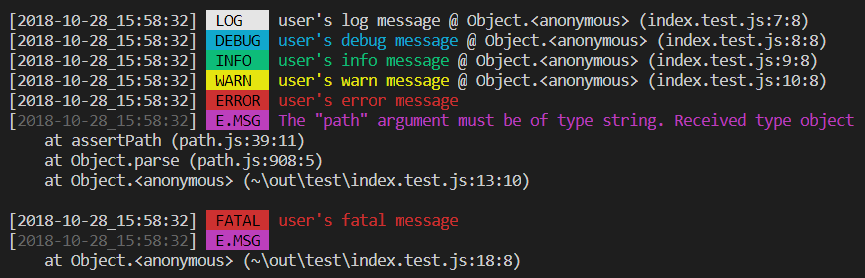
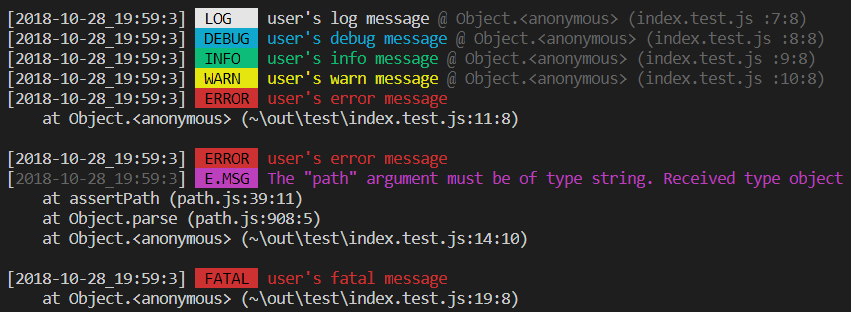
+ Theme template with condition; * New default theme.

Changed region(s): [[0.0, 0.0, 1.0, 1.0]]

diff --git a/src/handlers.ts b/src/handlers.ts
@@ -18,9 +18,8 @@ export const level = {
         output.level = output.level.toUpperCase();
     },
     padEnd(width: number) {
-        return function (output: Output) {
+        return (output: Output) =>
             output.level = _.padEnd(output.level, width);
-        }
     }
 }
 
@@ -46,9 +45,8 @@ export const stack = {
     simplifyRoot(root: string, replacement: string = '~') {
         let re = new RegExp(_.escapeRegExp(root), 'g');
 
-        return function (output: Output) {
+        return (output: Output) =>
             output.error.stack = (<string>output.error.stack).replace(re, replacement);
-        }
     },
     extract(featrue: RegExp = /at .+/) {
 
@@ -73,17 +71,22 @@ export const stack = {
 }
 
 export const output = {
-    format(template: string) {
-        let plainTemplate = template.replace(/\{\{[^}]+\}\}/g, '')
-        return (output: Output) =>
-            output.output = _.format(plainTemplate, output);
+    format(template: string | ((output: Output) => string)) {
+        if (typeof template === 'string') {
+            let plainTemplate = template.replace(/\{\{[^}]+\}\}/g, '');
+            return (output: Output) =>
+                output.output = _.format(plainTemplate, output);
+        } else {
+            return (output: Output) =>
+                output.output = _.format(template(output), output);
+        }
     }
 }
 
 export const colorOutput = {
-    format(template: string) {
-        return (output: Output) => {
-            output.colorOutput = _.format(template, output);
-        }
+    format(template: string | ((output: Output) => string)) {
+        return typeof template === 'string'
+            ? (output: Output) => output.colorOutput = _.format(template, output)
+            : (output: Output) => output.colorOutput = _.format(template(output), output);
     }
 }

diff --git a/src/defaultOptions.ts b/src/defaultOptions.ts
@@ -1,16 +1,17 @@
 import * as path from 'path';
 import { Options } from '.';
-import { useErrorInFirstArg, common } from "./accepters";
+import { useErrorInFirstArg, common, Output } from "./accepters";
 import { date, level, message, stack, colorOutput } from "./handlers";
 import { colorConsole } from "./appenders";
 
 const theme = (color: string) =>
-    `[{{timestamp}}] {{style.${color}}}{{style.inverse}} {{level}} {{style.no_inverse}} {{message}}{{style.clear}} @ {{method}} ({{file}}:{{line}}:{{pos}})`;
+    `[{{timestamp}}] {{style.${color}}}{{style.inverse}} {{level}} {{style.no_inverse}} {{message}}{{style.clear}} {{style.grey}}@ {{method}} ({{file}} :{{line}}:{{pos}}){{style.clear}}`;
 
-const themeError = `[{{timestamp}}] {{style.red}}{{style.inverse}} {{level}} {{style.no_inverse}} {{message}}{{style.clear}}
-[{{style.grey}}{{timestamp}}{{style.clear}}] {{style.magenta}}{{style.inverse}} E.MSG {{style.no_inverse}} {{error.message}}{{style.clear}}
-{{error.stack}}
-`;
+// Template with condition
+const themeError = (output: Output) =>
+    output.error.message
+        ? '[{{timestamp}}] {{style.red}}{{style.inverse}} {{level}} {{style.no_inverse}} {{message}}{{style.clear}}\n[{{style.grey}}{{timestamp}}{{style.clear}}] {{style.magenta}}{{style.inverse}} E.MSG {{style.no_inverse}} {{error.message}}{{style.clear}}\n{{error.stack}}\n'
+        : '[{{timestamp}}] {{style.red}}{{style.inverse}} {{level}} {{style.no_inverse}} {{message}}{{style.clear}}\n{{error.stack}}\n';
 
 const
     h1 = date.format('yyyy-mm-dd_hh:MM:ss'),

diff --git a/src/index.ts b/src/index.ts
@@ -56,6 +56,8 @@ function log(options: Options, level: string, args: any[]) {
         appender(output as Output));
 }
 
+export const defaultOptions = DEFAULT_OPTIONS;
+
 export const accepters = require('./accepters');
 
 export const handlers = require('./handlers');

diff --git a/test/index.test.ts b/test/index.test.ts
@@ -7,6 +7,7 @@ logger.log('user\'s log message');
 logger.debug('user\'s debug message');
 logger.info('user\'s info message');
 logger.warn('user\'s warn message');
+logger.error('user\'s error message');
 try {
     let p = {} as any as string;
     path.parse(p);

diff --git a/README.md b/README.md
@@ -1,5 +1,7 @@
 # node-trailer
 
+[![npm](https://img.shields.io/npm/v/node-trailer.svg)](https://npmjs.org/package/node-trailer)
+
 A logger construct by functions.
 
 ![Preview](./images/preview.png)
@@ -51,7 +53,7 @@ If return an `output`, it will stop executing other functions.
 
 #### options.`handlers`: Array<(output: Output) => void>
 
-Transform the data in `output`, finally format the data into `Output#output` or `Output#colorOutput`.
+Transform the data in `output`, finally format the data into Output#`output` or Output#`colorOutput`.
 
 #### options.`appenders`: Array<(output: Output) => void>
 
@@ -67,8 +69,8 @@ Example: Trailer#`log: (...args: any[]) => void`
 
 Built-in `accepter`.
 
-- `useErrorInFirstArg(level: string, args: any[])`: Use first args as `Output#error` as source of `stack`, if it is instance of `Error`.
-- `common(level: string, args: any[])`: Use build-in error as `Output#error` as source of `stack`.
+- `useErrorInFirstArg(level: string, args: any[])`: Use first args as Output#`error` as source of `stack`, if it is instance of `Error`.
+- `common(level: string, args: any[])`: Use build-in error as Output#`error` as source of `stack`.
 
 #### class Output
 
@@ -109,12 +111,12 @@ Built-in `handler`.
     - `filterThirdPart`: A handler for removing the row contain `node_modules` in stack.
     - `filterNative`: A handler for removing the row contain `internal` in stack.
 - output
-    - `format(template: string)`: Return a handler to format `output` data with `template` and save in Output#`output`.
+    - `format(template: string | ((output: Output) => string))`: Return a handler to format `output` data with `template` and save in Output#`output`.
         - template:
             1. `{{error.message}}` will fill with the content of Output#`error.message`.
             2. Can contain `{{style.xxx}}`, but it will be ignore.
 - colorOutput
-    - `format(template: string)`: Return a handler to format `output` data with `template` and save in Output#`colorOutput`.
+    - `format(template: string | ((output: Output) => string))`: Return a handler to format `output` data with `template` and save in Output#`colorOutput`.
         - template
             1. `{{error.message}}` will fill with the content of Output#`error.message`
             2. `{{style.red}}` will fill with the content of Output#`style.red`, after this string will show color as red in console.

diff --git a/CHANGELOG.md b/CHANGELOG.md
@@ -1,5 +1,8 @@
 # Change Log
 
+## 0.1.2
++ Theme template with condition.
+
 ## 0.1.1
 * Update README.md;
 * Refactor default options and built-in handlers.
